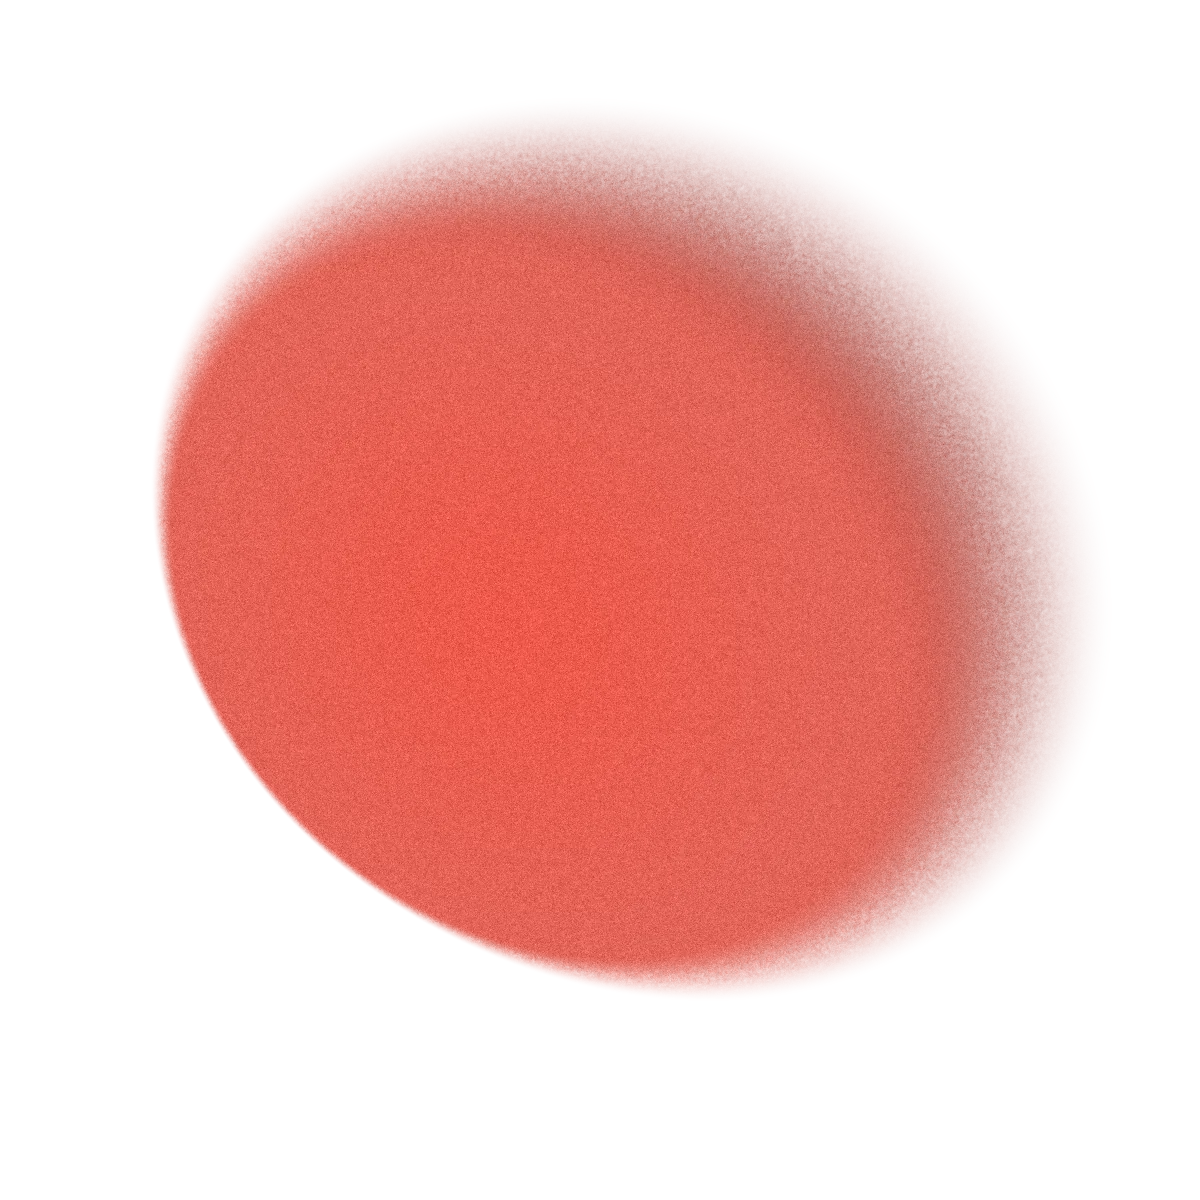
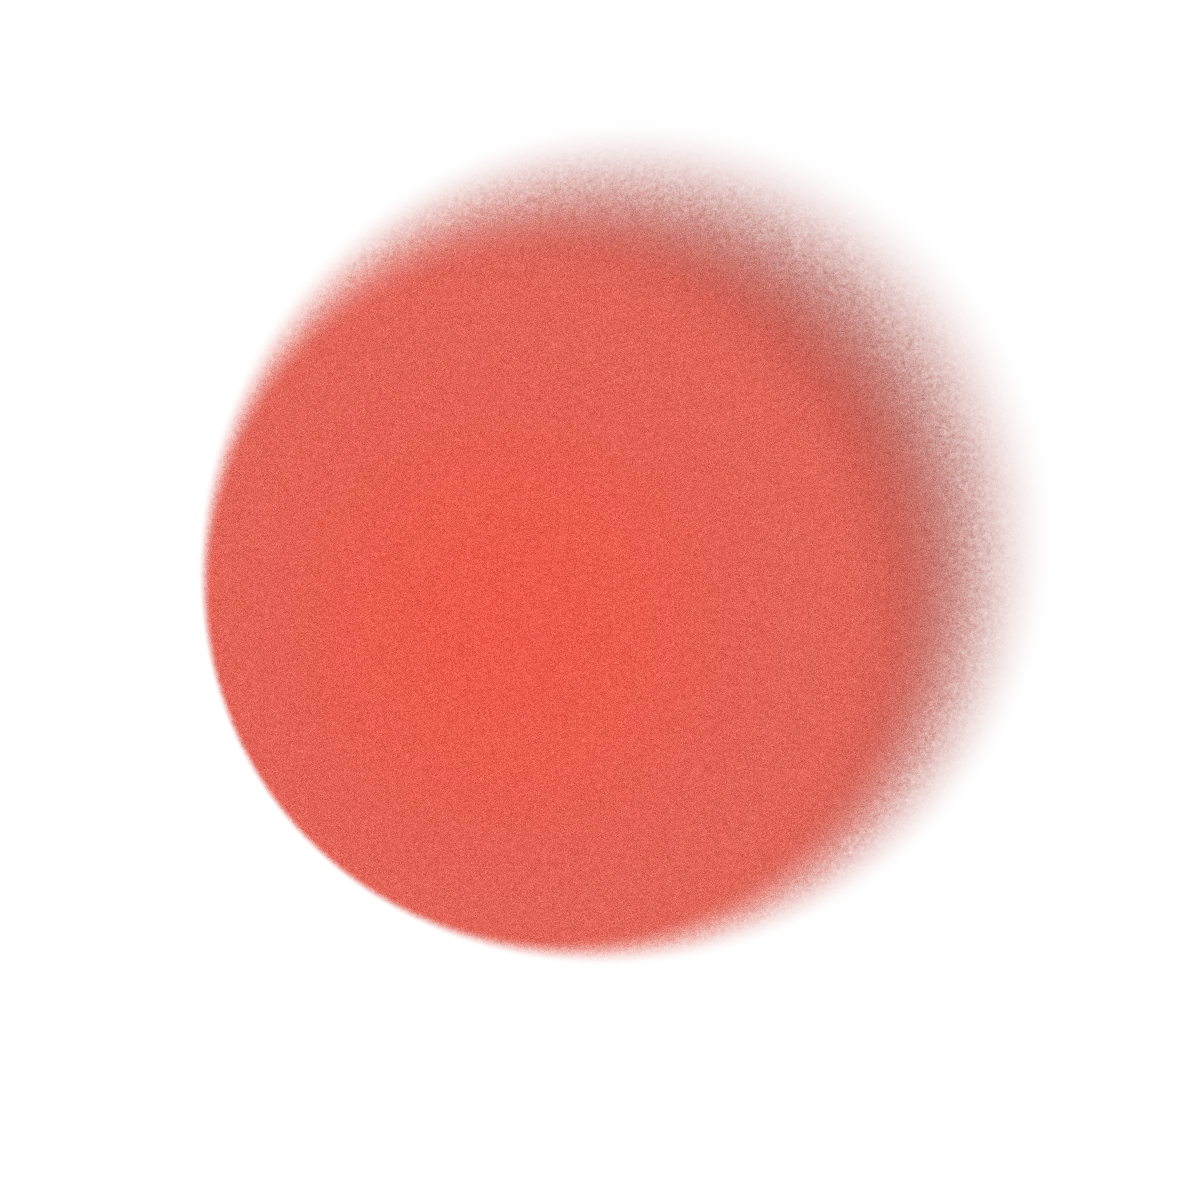
fix: 히어로 원을 정원으로, 곡선 문구 'AI Engineer' 원문 표기, 곡선 문구 전용 서체 훅(--font-arc)
- render-hero-blob.py: 타원(0.355/0.295, 37°) → 원(A=B=0.30). 사용자 "원이 휘어졌다". 모멘트 실측 584x417 은
  번짐 비대칭이 섞인 값이었고 레퍼런스는 원이다. 번짐 폭 w_in/w_out 소폭 축소. webp 재생성(196KB / 198KB).
- Hero.astro: .arc 의 text-transform: uppercase 제거(사용자 "내가 보낸 이대로"), font-family 를 --font-arc 로.
  --blob-x 47% → 46%.
- global.css: --font-arc "Cheddar Gothic Rough"(The Type Founders, 산돌구름 구독 웹폰트, 라틴 전용) + Pretendard 폴백.
  웹폰트 로드는 구독 계정의 임베드 코드로 Layout.astro <head> 에서 — 라이선스상 파일 self-host 불가.

Playwright(Edge) 실측: 1440/1920/390 라이트·다크 오류 0.

Claude-Session: https://claude.ai/code/session_01WK3WmkAjh8p7ziyraCtgAJ

diff --git a/src/styles/global.css b/src/styles/global.css
@@ -31,6 +31,10 @@
   --font-display: "Pretendard Variable", Pretendard, -apple-system, BlinkMacSystemFont, "Segoe UI",
     system-ui, "Apple SD Gothic Neo", "Noto Sans KR", "Malgun Gothic", "맑은 고딕", Roboto, sans-serif;
   --font-body: var(--font-display);
+  /* 홈 히어로 곡선 문구("AI Engineer") 전용 — 사용자 지정 Cheddar Gothic Rough(The Type Founders, 산돌구름
+     "더타입파운더스 라이프" 구독 웹폰트, 라틴 전용). 웹폰트는 구독 계정의 임베드 코드로 Layout.astro <head> 에서
+     로드해야 한다(파일 self-host 불가 — 라이선스). 로드 전에는 아래 폴백(Pretendard)으로 보인다. */
+  --font-arc: "Cheddar Gothic Rough", var(--font-display);
   --font-mono: ui-monospace, "SFMono-Regular", "Cascadia Mono", Consolas, "Liberation Mono",
     Menlo, monospace;
 

diff --git a/scripts/render-hero-blob.py b/scripts/render-hero-blob.py
@@ -39,15 +39,16 @@ y = (yy - cy) / S
 th = np.radians(37)
 u = x * np.cos(th) + y * np.sin(th)
 v = -x * np.sin(th) + y * np.cos(th)
-A, B = 0.355, 0.295  # 반장축·반단축(캔버스 비율). 이 경계가 "본색이 끝나는 선"
+A, B = 0.30, 0.30  # 반지름(캔버스 비율). 이 경계가 "본색이 끝나는 선". 레퍼런스는 원 — 타원(0.355/0.295)은
+                   # 사용자가 "휘어졌다"로 기각(2026-08-28). 모멘트 실측의 584x417 은 번짐 비대칭이 섞인 값이었다.
 rho = np.sqrt((u / A) ** 2 + (v / B) ** 2)
 
 # 방향별 번짐 폭 — 오른쪽 위(1~2시)로 갈수록 길게, 왼쪽·아래는 짧고 또렷하게
 ang = np.arctan2(y, x)
 soft = (1 + np.cos(ang - np.radians(-35))) / 2  # 1 = 가장 부드러운 방향
 soft = soft ** 1.6
-w_in = 0.018 + 0.14 * soft
-w_out = 0.008 + 0.46 * soft
+w_in = 0.018 + 0.12 * soft
+w_out = 0.008 + 0.42 * soft
 t = (rho - (1 - w_in)) / (w_in + w_out)
 alpha = 1 - smoothstep(t)
 
